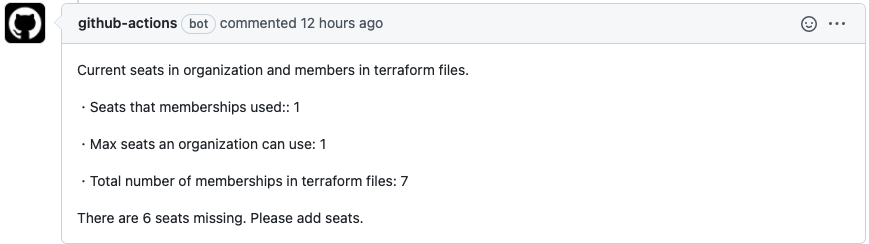
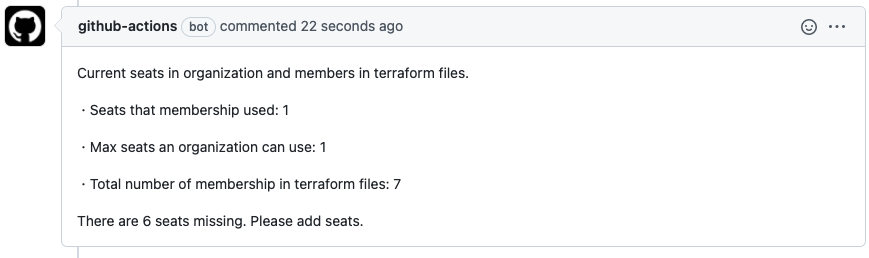
Fix typo.

diff --git a/lib/organization_member.rb b/lib/organization_member.rb
@@ -1,12 +1,12 @@
 # frozen_string_literal: true
 
 class OrganizationMembers
-  def initialize(memberships:, repository_collaborators:)
-    @memberships = memberships
+  def initialize(membership:, repository_collaborators:)
+    @membership = membership
     @repository_collaborators = repository_collaborators
   end
 
   def total_member_count
-    @memberships.size + @repository_collaborators.size
+    @membership.size + @repository_collaborators.size
   end
 end

diff --git a/lib/terraform_reader.rb b/lib/terraform_reader.rb
@@ -12,7 +12,7 @@ class TerraformReader
     organization_members = extract_members(file_path: @membership_file_path)
     collaborator_members = extract_members(file_path: @repository_collaborator_file_path)
 
-    OrganizationMembers.new(memberships: organization_members, repository_collaborators: collaborator_members)
+    OrganizationMembers.new(membership: organization_members, repository_collaborators: collaborator_members)
   end
 
   private

diff --git a/README.md b/README.md
@@ -1,6 +1,6 @@
 # OrganizationSeatsChecker
 
-This action runs on pull requests to count GitHub organization members and memberships written in terraform files.
+This action runs on pull requests to count GitHub organization members and membership written in terraform files.
 
 ## Examples
 ![Example comment made by the action](./examples/images/example-github-pr-check.png)
@@ -23,12 +23,12 @@ Required. This organization name for which you want to count seats.
 
 ## Outputs
 ### `filled_seats`
-Seats that memberships used.
+Seats that membership used.
 ### `seats`
 Max seats an organization can use.
 
 ### `member_count`
-Total number of memberships in the `github_membership` and `github_repository_collaborator` resources written in the terraform file.
+Total number of membership in the `github_membership` and `github_repository_collaborator` resources written in the terraform file.
 
 ## Example usage
 
@@ -61,9 +61,9 @@ jobs:
         with:
           script: |
             var output = `Current seats in organization and members in terraform files.\n
-              ・Seats that memberships used:: ${{steps.seats_members.outputs.filled_seats}}\n
+              ・Seats that membership used:: ${{steps.seats_members.outputs.filled_seats}}\n
               ・Max seats an organization can use: ${{steps.seats_members.outputs.seats}}\n
-              ・Total number of memberships in terraform files: ${{steps.seats_members.outputs.member_count}}\n\n
+              ・Total number of membership in terraform files: ${{steps.seats_members.outputs.member_count}}\n\n
             `
             const numberOfSeatsInShortage = ${{steps.seats_members.outputs.member_count}} - ${{steps.seats_members.outputs.seats}}
             var additional_message = `There is no shortage of seats.\n`
